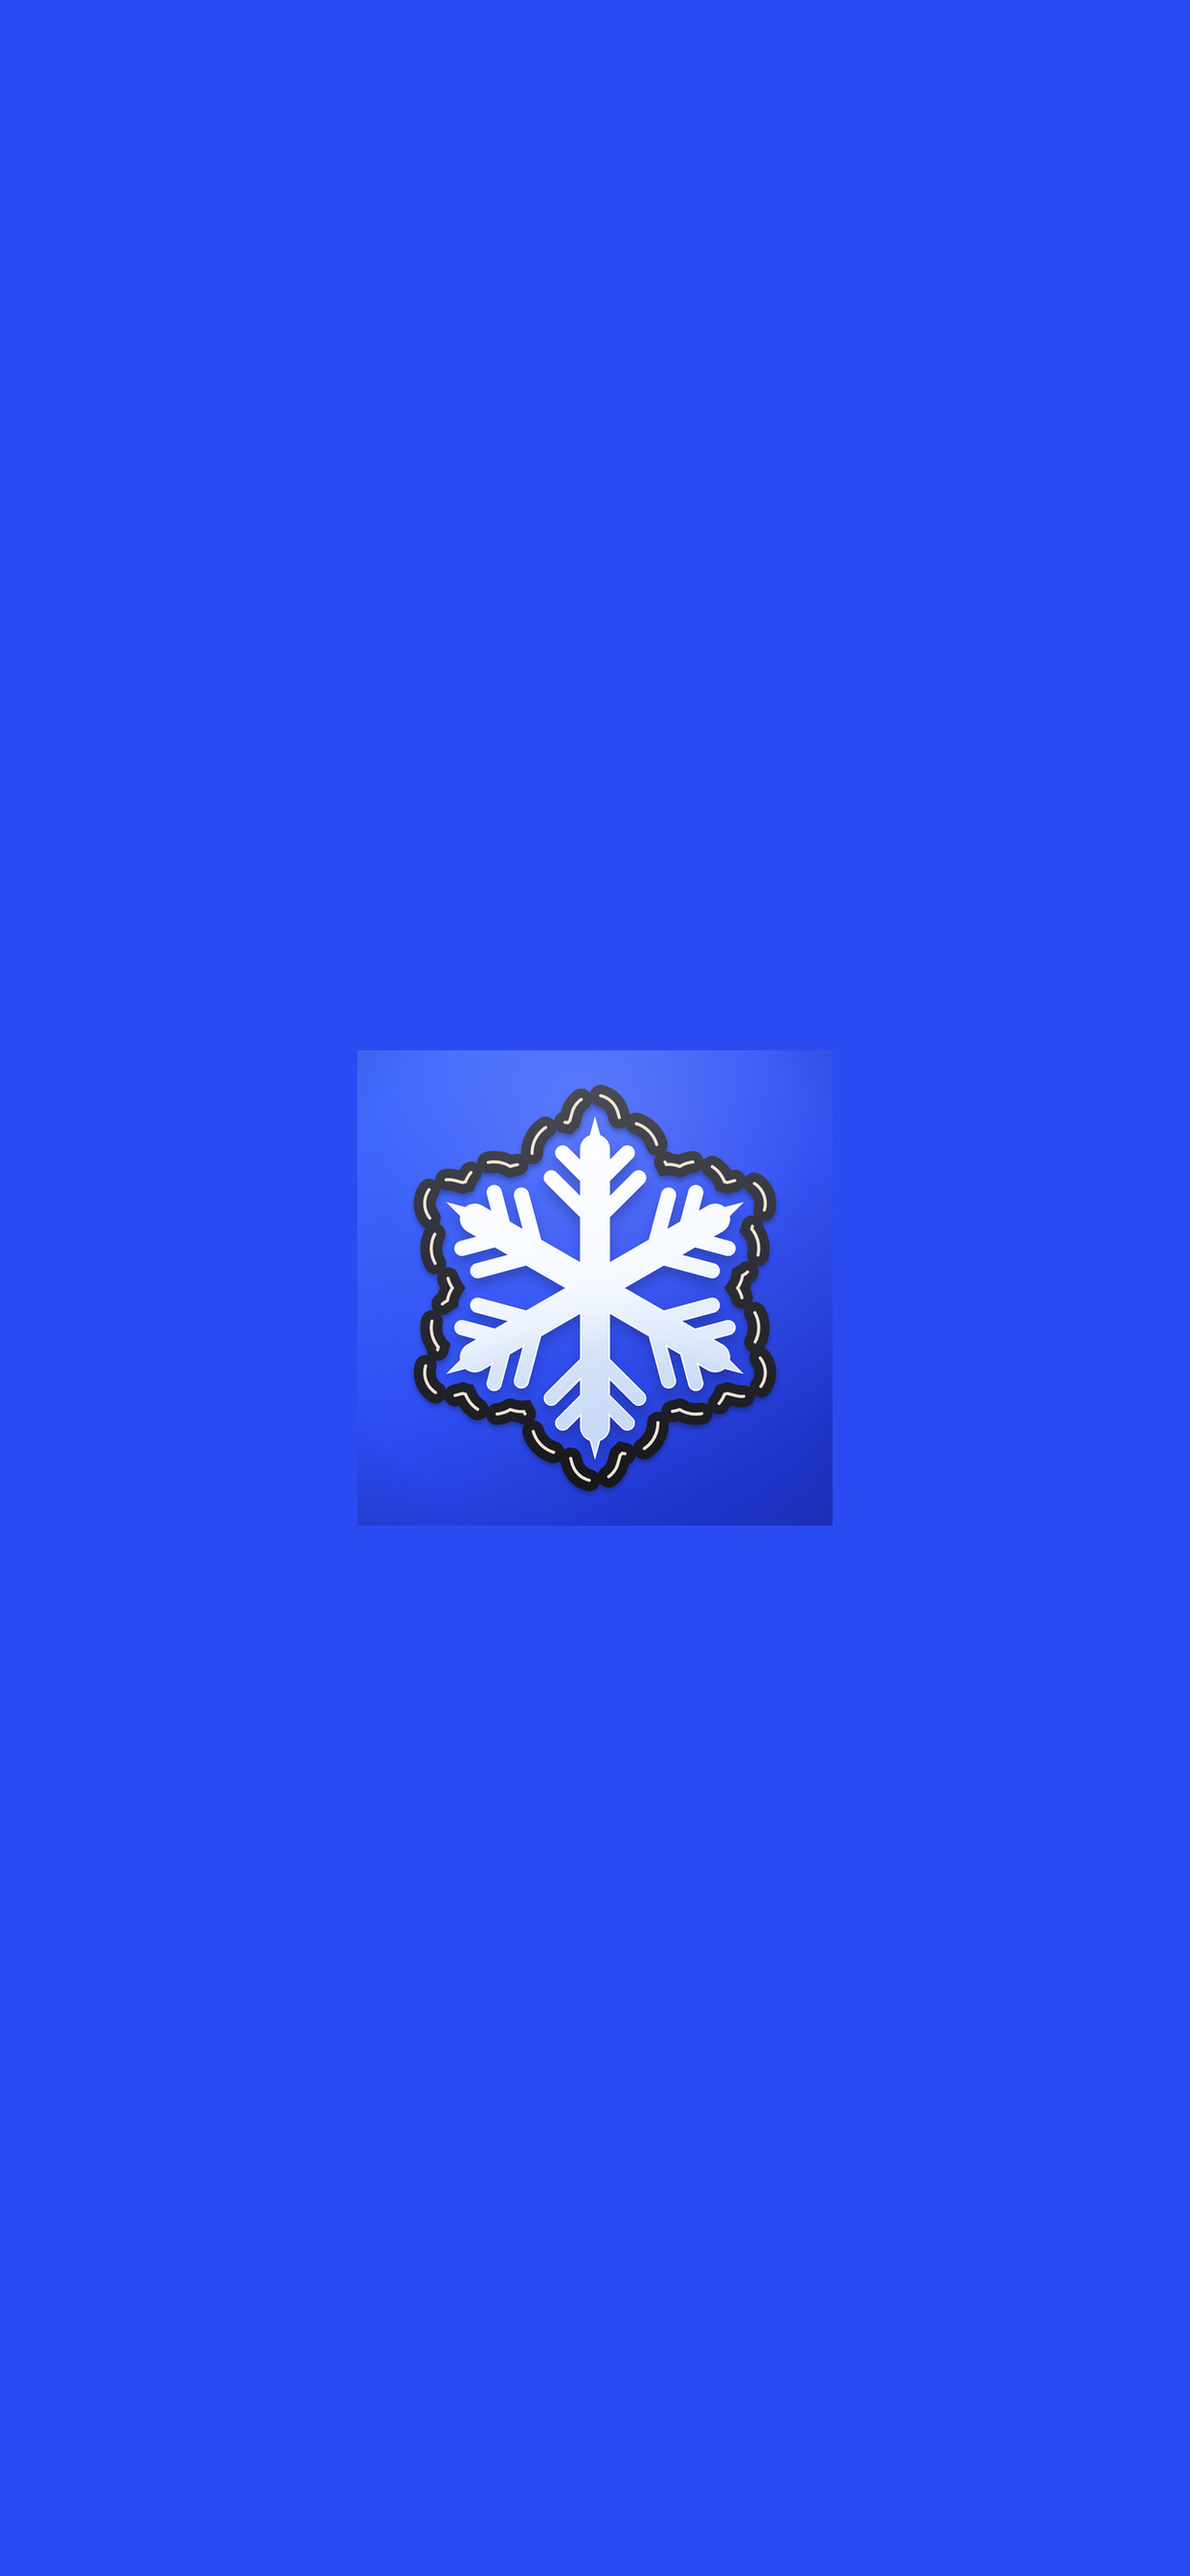
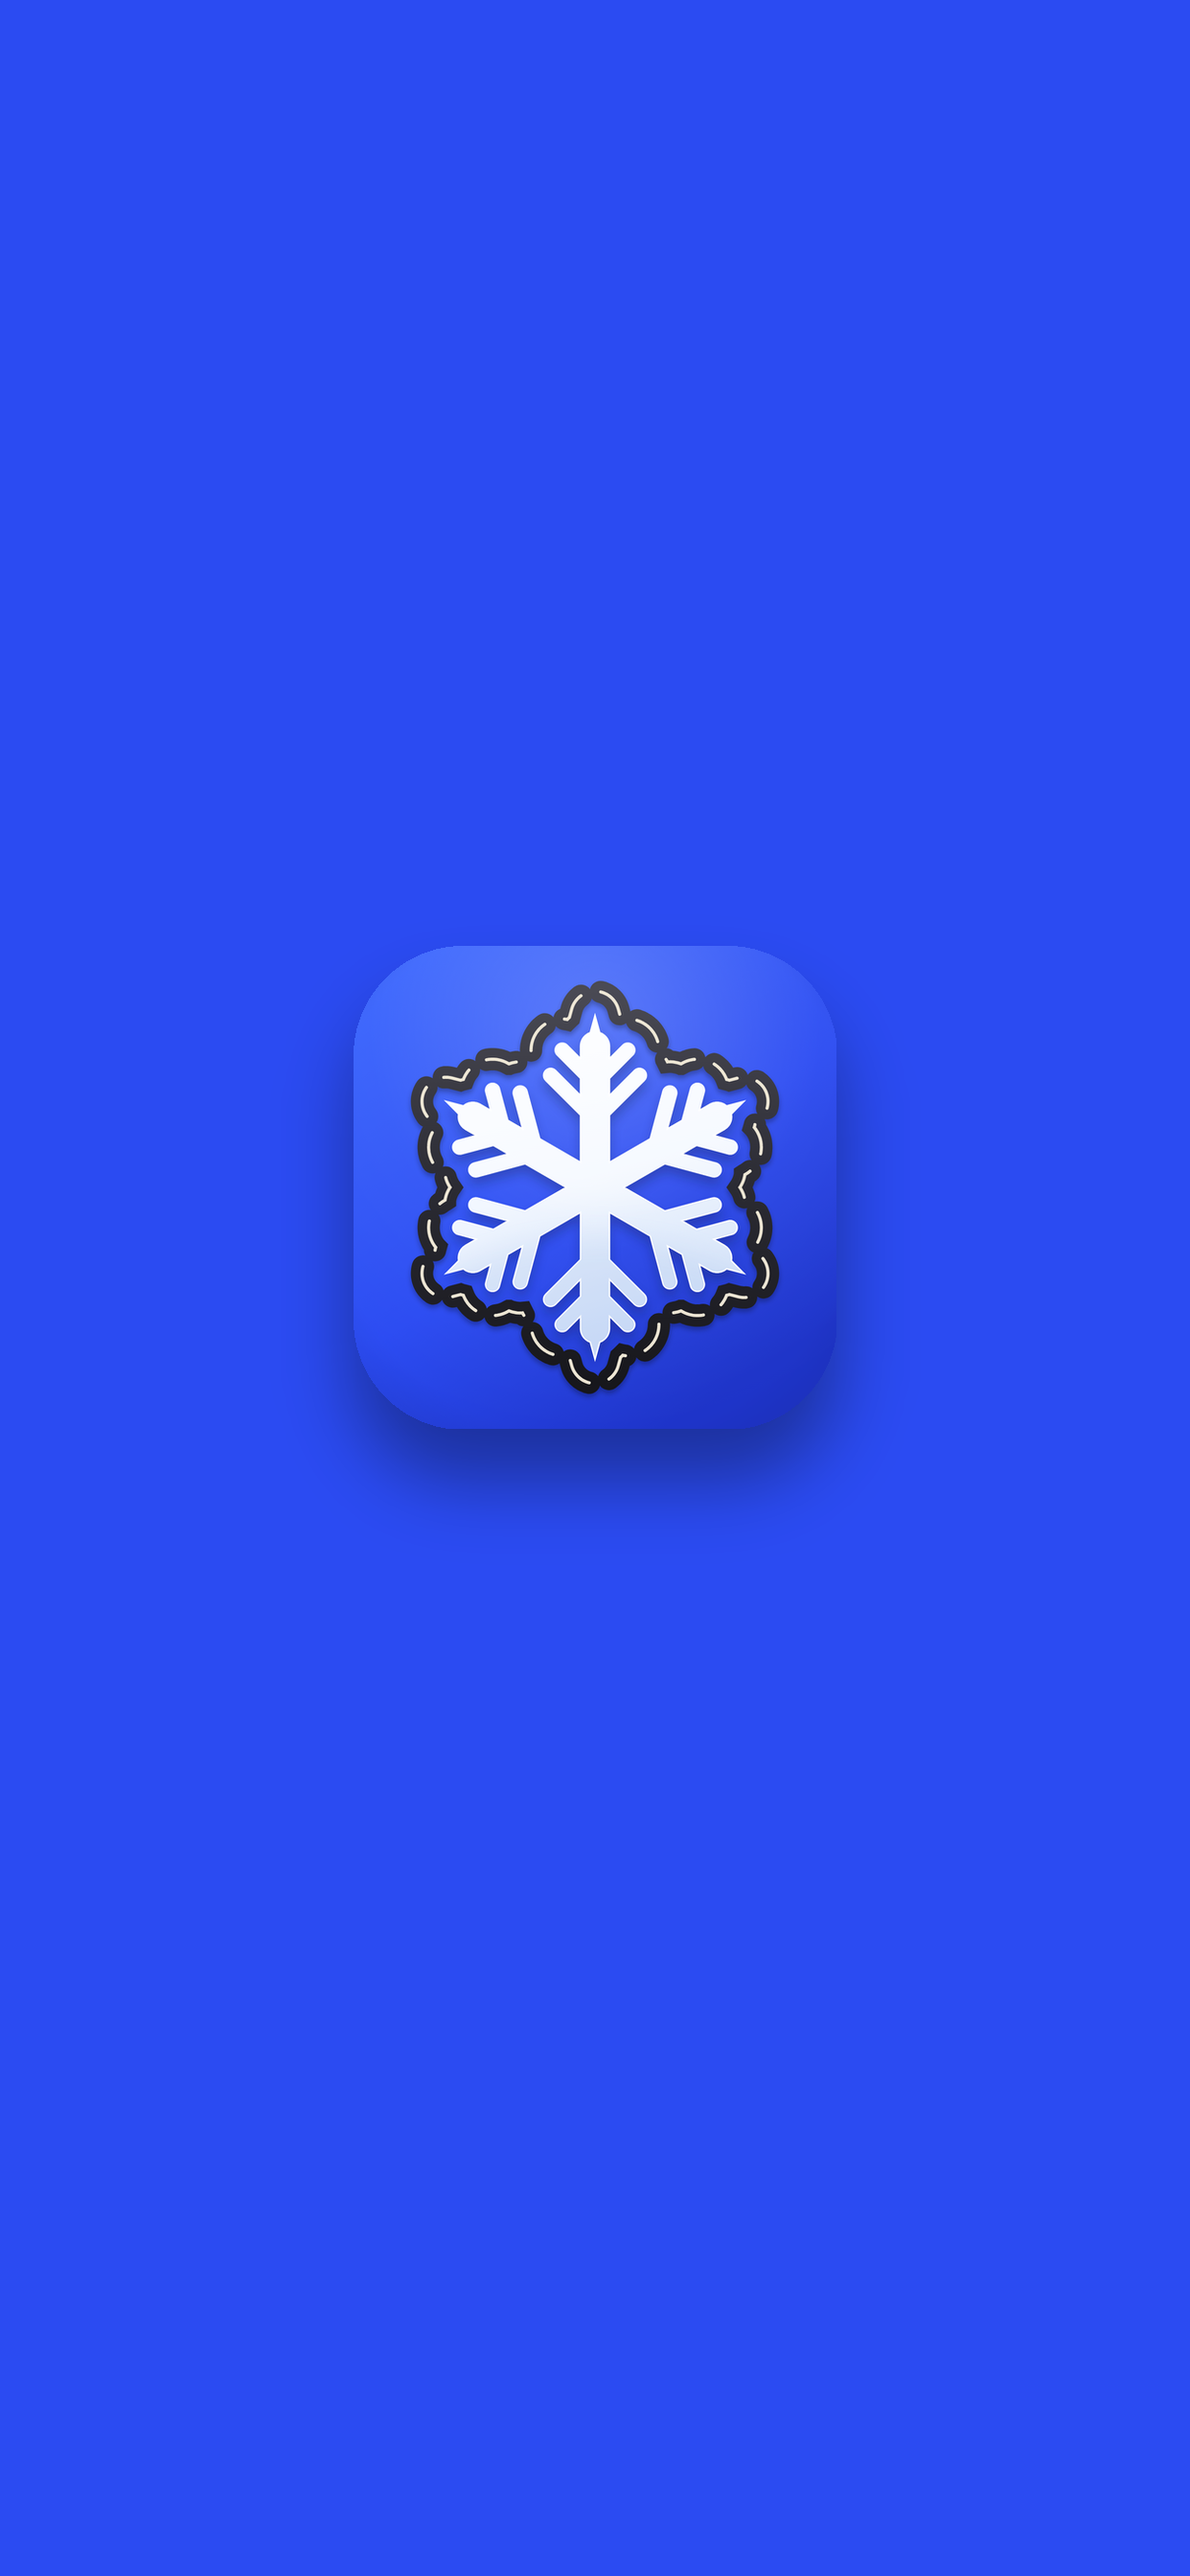
Beta 1.43: launch stills match the splash (rounded/shadow/aligned) + waits hardening for drives 115/117/120/126

Changed region(s): [[0.2754, 0.3438, 0.7343, 0.5938]]

diff --git a/index.html b/index.html
@@ -225,7 +225,7 @@
 <div id="hud">
   <div id="warn">Not saving — storage is full or blocked</div>
   <div class="row">
-    <div class="titleStack"><div class="title">Snow Route Beta</div><div class="ver" id="ver">Beta 1.42</div></div>
+    <div class="titleStack"><div class="title">Snow Route Beta</div><div class="ver" id="ver">Beta 1.43</div></div>
   </div>
   <div id="stats"></div>
 </div>

diff --git a/src/tracker-source.html b/src/tracker-source.html
@@ -224,7 +224,7 @@
 <div id="hud">
   <div id="warn">Not saving — storage is full or blocked</div>
   <div class="row">
-    <div class="titleStack"><div class="title">Snow Route Beta</div><div class="ver" id="ver">Beta 1.42</div></div>
+    <div class="titleStack"><div class="title">Snow Route Beta</div><div class="ver" id="ver">Beta 1.43</div></div>
   </div>
   <div id="stats"></div>
 </div>

diff --git a/CHANGELOG.md b/CHANGELOG.md
@@ -4,6 +4,10 @@ User-facing changes and important reliability fixes. Versions are the
 in-app labels (header, under the app name). Since Beta 1.36 the label is
 just "Beta X.Y" and the app is called Snow Route Beta.
 
+## Beta 1.43 — 2026-10-31
+
+START-UP IMAGE FIX (Andrew spotted it): the still image the phone shows before the app loads had the app icon pasted in as a plain square, while the animated splash that follows it shows the icon with rounded corners and a soft shadow — so the icon flickered square-to-rounded on every cold open. The stills are regenerated to match the animated splash's resting frame exactly: same rounded corners, same shadow, same size, same spot on the screen. Nothing else changes.
+
 ## Beta 1.42 — 2026-10-31
 
 START-UP SPLASH (Andrew approved the design from the mockups): opening the app cold now starts on the icon blue with the snowflake icon rising in and "Snow Route" sliding in from the right; the pair hold while the map loads behind them, then the flake rushes at you until its white covers the whole screen and dissolves into the app. The exit waits for the map to be genuinely ready (with a safety release so a dead connection can never trap you behind it), and afterwards the splash is removed entirely — it plays once per cold open and never replays. iPhone still launch images (the frozen frame the phone shows before the app loads) ship for current screen sizes, in the same blue with the same icon, so the still and the animation read as one moment.
